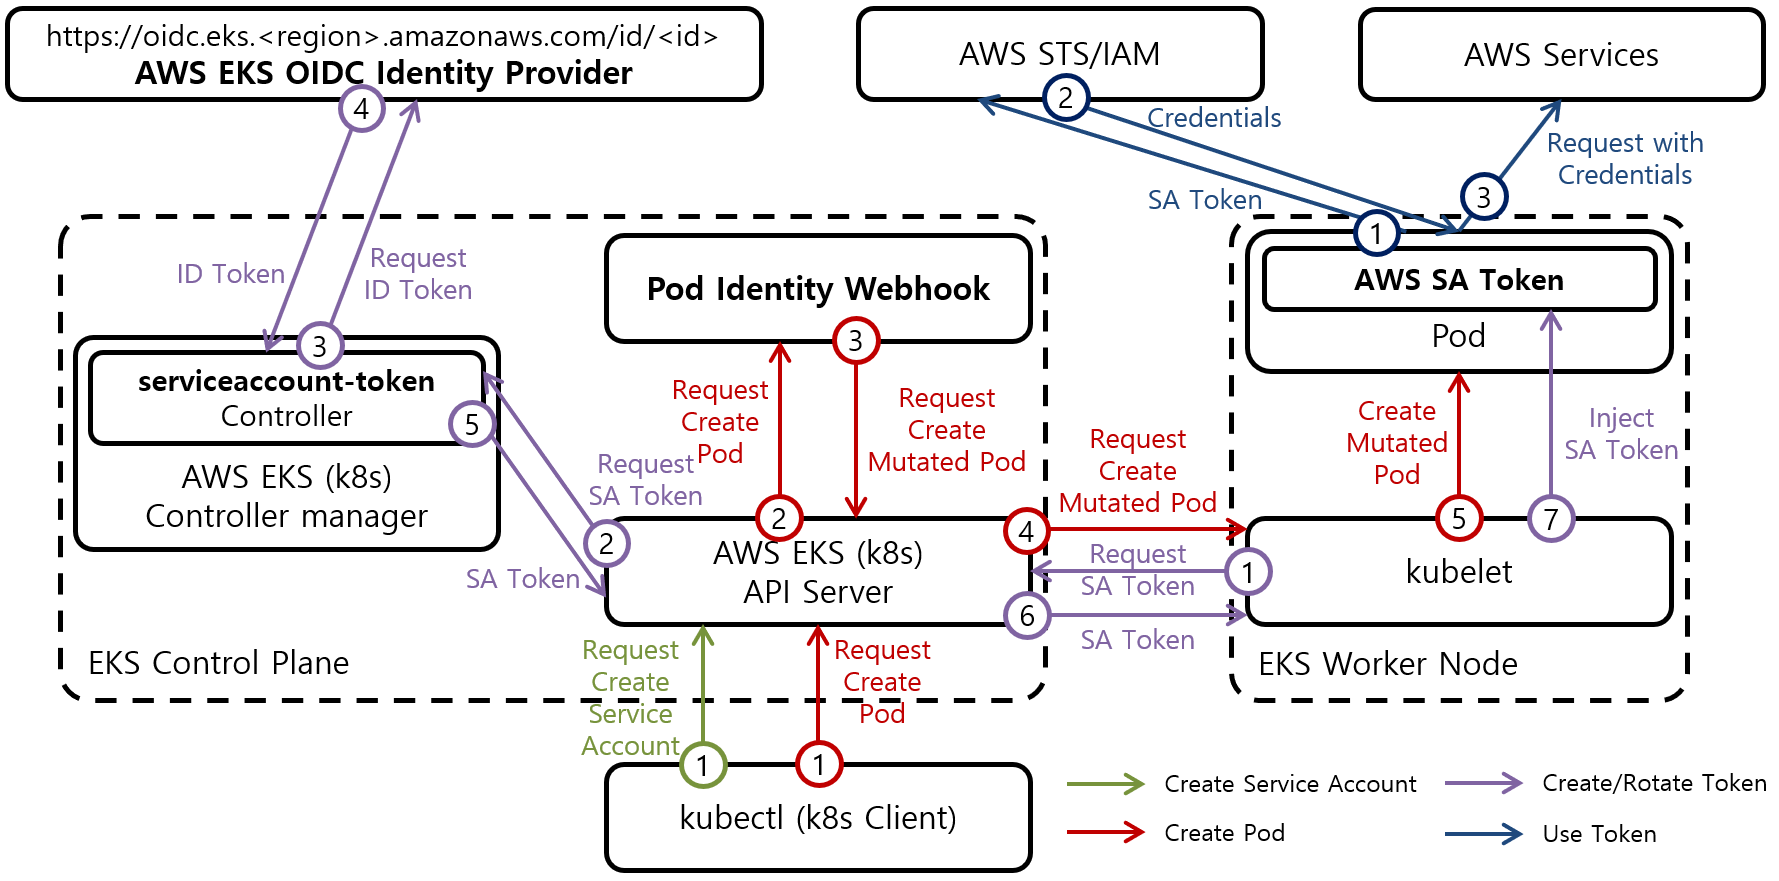
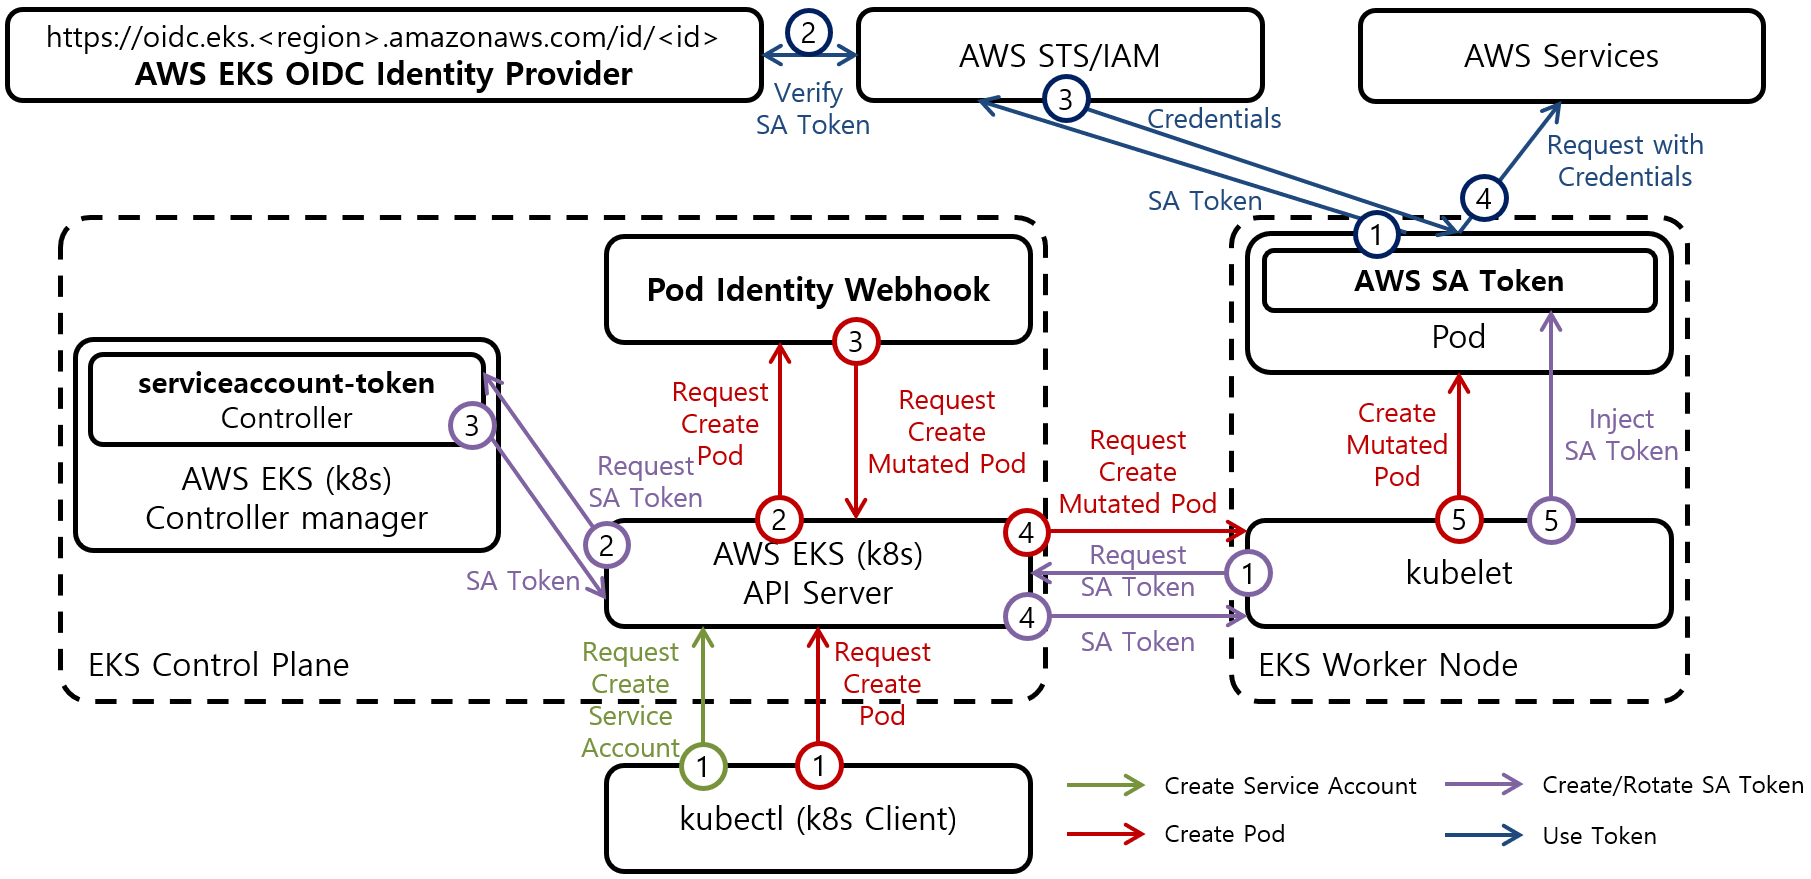
Update

Changed region(s): [[0.0, 0.0, 1.0, 1.0], [0.3092, 0.8908, 0.3401, 0.9829]]

diff --git a/_docs/theory_analysis/AWS_EKS_Service_Account_IAM_Role.md b/_docs/theory_analysis/AWS_EKS_Service_Account_IAM_Role.md
@@ -7,53 +7,40 @@ comment: true
 adsense: true
 ---
 
-AWS EKS Cluster의 Service Account에 AWS IAM Role을 연동하는 과정을 정리한다.
+AWS EKS Cluster의 Service Account에 AWS IAM Role을 부여하는 과정을 정리한다.
 
 ### 1. AWS EKS Service Account에 AWS IAM Role 부여
 
-AWS EKS 1.14 Version 이상에서는 EKS (k8s) Cluster의 Service Account에 AWS IAM의 Role을 부여할 수 있는 기능을 제공하고 있다. 이 기능을 통해서 AWS IAM Role을 부여받은 Service Account를 이용하는 Pod는 AWS Service를 이용할 수 있게 된다.
-
 ![[그림 1] AWS EKS Service Account에 AWS IAM Role 부여]({{site.baseurl}}/images/theory_analysis/AWS_EKS_Service_Account_IAM_Role/AWS_EKS_Service_Account_IAM_Role.PNG)
 
-[그림 1]은 EKS Cluster의 Service Account에 AWS IAM의 Role을 부여하고, 해당 Service Account를 이용하는 Pod를 통해서 AWS Service에 접근하는 과정을 나타내고 있다. EKS Cluster 사용자는 k8s Client인 kubectl을 이용하여 Pod를 생성한다.
+AWS EKS 1.14 Version 이상에서는 EKS (k8s) Cluster의 Service Account에 AWS IAM의 Role을 부여할 수 있는 기능을 제공하고 있다. 이 기능을 통해서 AWS IAM Role을 부여받은 Service Account를 이용하는 Pod는 AWS Service를 이용할 수 있게 된다. [그림 1]은 EKS Cluster의 Service Account에 AWS IAM의 Role을 부여하고, 해당 Service Account를 이용하는 Pod를 통해서 AWS Service에 접근하는 과정을 나타내고 있다.
+
+본 기능을 Service Account 생성, Pod 생성, Service Account Token 생성/교체, Service Account Token 이용 4단계로 나누어 설명한다. 설명에는 [AWS Load Balancer Controller](https://docs.aws.amazon.com/eks/latest/userguide/aws-load-balancer-controller.html)를 예제로 이용한다. AWS ELK Cluster에서 동작하는 AWS Load Balancer Controller도 AWS Service에 접근해야하기 때문에 AWS Load Balancer Controller가 이용하는 Service Account에도 본 기능을 이용하여 AWS Role이 부여되어 있기 때문이다.
+
+#### 1.1. Create Service Account
 
 {% highlight yaml %}
-...
-spec:
-  containers:
-  - args:
-    - --cluster-name=ssup2-eks-cluster
-    - --ingress-class=alb
-    env:
-    - name: AWS_DEFAULT_REGION
-      value: ap-northeast-2
-    - name: AWS_REGION
-      value: ap-northeast-2
-    - name: AWS_ROLE_ARN
-      value: arn:aws:iam::132099918825:role/eksctl-ssup2-eks-cluster-addon-iamserviceacc-Role1-13GTAZQ9TJV8M
-    - name: AWS_WEB_IDENTITY_TOKEN_FILE
-      value: /var/run/secrets/eks.amazonaws.com/serviceaccount/token
-    image: amazon/aws-alb-ingress-controller:v2.1.3
-...
-    volumeMounts:
-    - mountPath: /var/run/secrets/eks.amazonaws.com/serviceaccount
-      name: aws-iam-token
-      readOnly: true
-...
-  volumes:
-  - name: aws-iam-token
-    projected:
-      defaultMode: 420
-      sources:
-      - serviceAccountToken:
-          audience: sts.amazonaws.com
-          expirationSeconds: 86400
-          path: token
-...
+apiVersion: v1
+kind: ServiceAccount
+metadata:
+  annotations:
+    eks.amazonaws.com/role-arn: arn:aws:iam::132099918825:role/eksctl-ssup2-eks-cluster-addon-iamserviceacc-Role1-13GTAZQ9TJV8M
+  creationTimestamp: "2021-04-06T14:53:13Z"
+  labels:
+    app.kubernetes.io/managed-by: eksctl
+  name: aws-load-balancer-controller
+  namespace: kube-system
+  resourceVersion: "4643"
+  selfLink: /api/v1/namespaces/kube-system/serviceaccounts/aws-load-balancer-controller
+  uid: ceec1768-8be2-4ca9-9a24-f8bf4c1cce20
+secrets:
+- name: aws-load-balancer-controller-token-trf5m
 {% endhighlight %}
 <figure>
 <figcaption class="caption">[Text 1] Service Account with Role ARN</figcaption>
 </figure>
+
+#### 1.2. Create Pod
 
 {% highlight yaml %}
 ...
@@ -93,6 +80,8 @@ spec:
 <figcaption class="caption">[Text 2] Mutated Pod Spec</figcaption>
 </figure>
 
+#### 1.3. Create/Rotate Token
+
 {% highlight json %}
 {
   "aud": [
@@ -120,28 +109,7 @@ spec:
 <figcaption class="caption">[Text 3] Token</figcaption>
 </figure>
 
-{% highlight yaml %}
-...
-spec:
-  containers:
-  - args:
-    - --cluster-name=ssup2-eks-cluster
-    - --ingress-class=alb
-    env:
-    - name: AWS_DEFAULT_REGION
-      value: ap-northeast-2
-    - name: AWS_REGION
-      value: ap-northeast-2
-    - name: AWS_ROLE_ARN
-      value: arn:aws:iam::132099918825:role/eksctl-ssup2-eks-cluster-addon-iamserviceacc-Role1-13GTAZQ9TJV8M
-    - name: AWS_WEB_IDENTITY_TOKEN_FILE
-      value: /var/run/secrets/eks.amazonaws.com/serviceaccount/token
-    image: amazon/aws-alb-ingress-controller:v2.1.3
-...
-{% endhighlight %}
-<figure>
-<figcaption class="caption">[Text 4] Mutated Pod Spec</figcaption>
-</figure>
+#### 1.4. Use Token
 
 {% highlight json %}
 {
@@ -164,7 +132,7 @@ spec:
 }
 {% endhighlight %}
 <figure>
-<figcaption class="caption">[Text 5] Role's Trust Relationships</figcaption>
+<figcaption class="caption">[Text 4] Role's Trust Relationships</figcaption>
 </figure>
 
 ### 2. 참조
@@ -176,5 +144,7 @@ spec:
 * [https://docs.aws.amazon.com/STS/latest/APIReference/API_AssumeRoleWithWebIdentity.html](https://docs.aws.amazon.com/STS/latest/APIReference/API_AssumeRoleWithWebIdentity.html)
 * [https://kubernetes.io/docs/tasks/configure-pod-container/configure-service-account/#service-account-token-volume-projection](https://kubernetes.io/docs/tasks/configure-pod-container/configure-service-account/#service-account-token-volume-projection)
 * [https://kubernetes.io/docs/reference/command-line-tools-reference/kube-apiserver/](https://kubernetes.io/docs/reference/command-line-tools-reference/kube-apiserver/)
+* [https://kubernetes.io/docs/tasks/configure-pod-container/configure-service-account/#service-account-issuer-discovery](https://kubernetes.io/docs/tasks/configure-pod-container/configure-service-account/#service-account-issuer-discovery)
 * [https://tech.devsisters.com/posts/pod-iam-role/](https://tech.devsisters.com/posts/pod-iam-role/)
 * [https://www.blog-dreamus.com/post/flo-tech-aws-eks%EC%97%90%EC%84%9C%EC%9D%98-iam-%EC%97%AD%ED%95%A0-%EB%B6%84%EB%A6%AC](https://www.blog-dreamus.com/post/flo-tech-aws-eks%EC%97%90%EC%84%9C%EC%9D%98-iam-%EC%97%AD%ED%95%A0-%EB%B6%84%EB%A6%AC)
+* [https://qiita.com/hiyosi/items/feec917d502af8ad8863](https://qiita.com/hiyosi/items/feec917d502af8ad8863)
